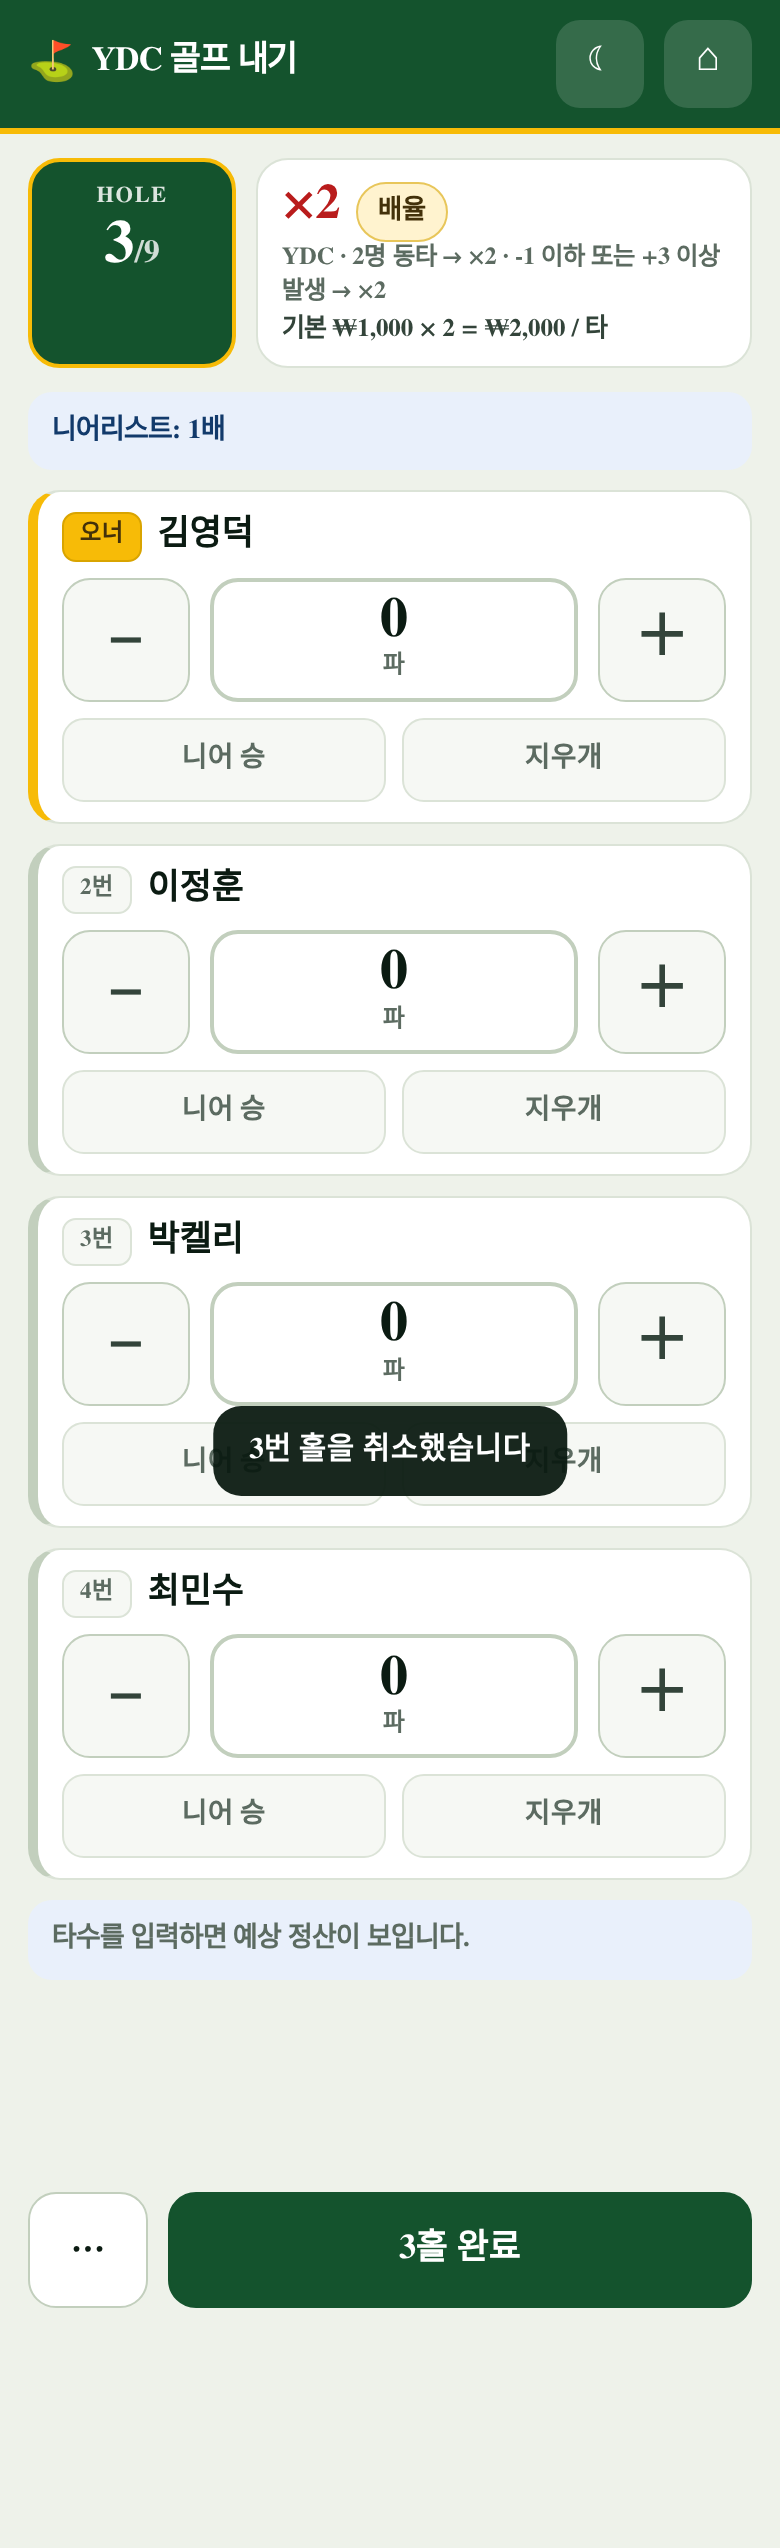
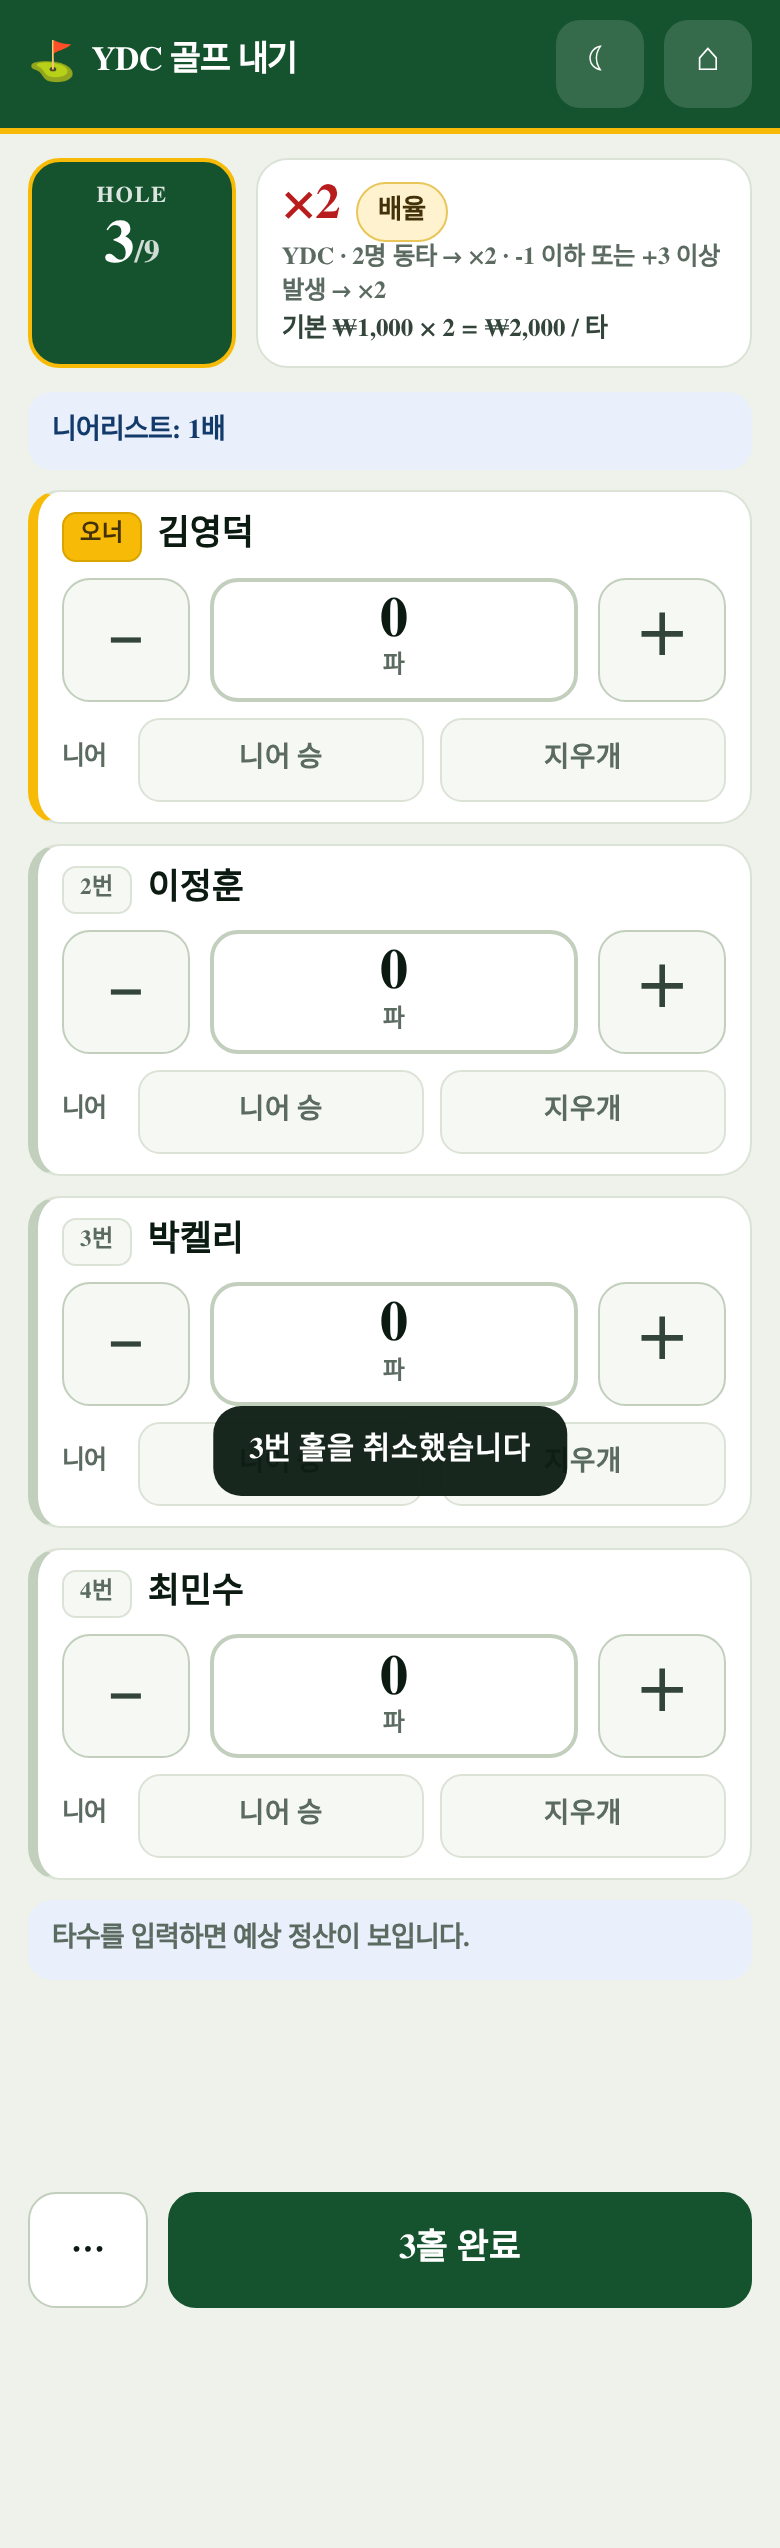
사이드 게임(니어/롱기) 칩을 종류별 한 줄로 분리, 테스트 63개 통과

diff --git a/index.html b/index.html
@@ -541,6 +541,13 @@ select.input {
   color: var(--muted);
   flex: 1 1 30%;
 }
+.side-chips .side-label {
+  align-self: center;
+  font-size: .78rem;
+  font-weight: 900;
+  color: var(--muted);
+  min-width: 30px;
+}
 .side-chips button.on { background: var(--info-soft); border-color: #6f9ede; color: var(--info-ink); }
 .side-chips button.erase.on { background: var(--lose-soft); border-color: #e08a8a; color: var(--lose); }
 
@@ -2028,8 +2035,11 @@ var App = (function () {
       var sideChips = activeSides.map(function (type) {
         var label = type === 'nearest' ? '니어' : '롱기';
         var cur = (d.sides[type] && d.sides[type][uid]) || 'none';
-        return '<button data-act="play:side" data-type="' + type + '" data-uid="' + esc(uid) + '" data-val="win" class="' + (cur === 'win' ? 'on' : '') + '">' + label + ' 승</button>' +
-          '<button data-act="play:side" data-type="' + type + '" data-uid="' + esc(uid) + '" data-val="erase" class="erase ' + (cur === 'erase' ? 'on' : '') + '">지우개</button>';
+        return '<div class="side-chips" data-side-row="' + type + '">' +
+          '<span class="side-label">' + label + '</span>' +
+          '<button data-act="play:side" data-type="' + type + '" data-uid="' + esc(uid) + '" data-val="win" class="' + (cur === 'win' ? 'on' : '') + '">' + label + ' 승</button>' +
+          '<button data-act="play:side" data-type="' + type + '" data-uid="' + esc(uid) + '" data-val="erase" class="erase ' + (cur === 'erase' ? 'on' : '') + '">지우개</button>' +
+        '</div>';
       }).join('');
 
       var doubleBtn = '';
@@ -2058,7 +2068,7 @@ var App = (function () {
           '</button>' +
           '<button class="stepper" data-act="play:inc" data-uid="' + esc(uid) + '" data-d="1" aria-label="타수 늘리기">＋</button>' +
         '</div>' +
-        (activeSides.length ? '<div class="side-chips">' + sideChips + '</div>' : '') +
+        sideChips +
         doubleBtn +
       '</div>';
     }).join('');

diff --git a/src/app.js b/src/app.js
@@ -419,8 +419,11 @@ var App = (function () {
       var sideChips = activeSides.map(function (type) {
         var label = type === 'nearest' ? '니어' : '롱기';
         var cur = (d.sides[type] && d.sides[type][uid]) || 'none';
-        return '<button data-act="play:side" data-type="' + type + '" data-uid="' + esc(uid) + '" data-val="win" class="' + (cur === 'win' ? 'on' : '') + '">' + label + ' 승</button>' +
-          '<button data-act="play:side" data-type="' + type + '" data-uid="' + esc(uid) + '" data-val="erase" class="erase ' + (cur === 'erase' ? 'on' : '') + '">지우개</button>';
+        return '<div class="side-chips" data-side-row="' + type + '">' +
+          '<span class="side-label">' + label + '</span>' +
+          '<button data-act="play:side" data-type="' + type + '" data-uid="' + esc(uid) + '" data-val="win" class="' + (cur === 'win' ? 'on' : '') + '">' + label + ' 승</button>' +
+          '<button data-act="play:side" data-type="' + type + '" data-uid="' + esc(uid) + '" data-val="erase" class="erase ' + (cur === 'erase' ? 'on' : '') + '">지우개</button>' +
+        '</div>';
       }).join('');
 
       var doubleBtn = '';
@@ -449,7 +452,7 @@ var App = (function () {
           '</button>' +
           '<button class="stepper" data-act="play:inc" data-uid="' + esc(uid) + '" data-d="1" aria-label="타수 늘리기">＋</button>' +
         '</div>' +
-        (activeSides.length ? '<div class="side-chips">' + sideChips + '</div>' : '') +
+        sideChips +
         doubleBtn +
       '</div>';
     }).join('');

diff --git a/src/style.css b/src/style.css
@@ -519,6 +519,13 @@ select.input {
   color: var(--muted);
   flex: 1 1 30%;
 }
+.side-chips .side-label {
+  align-self: center;
+  font-size: .78rem;
+  font-weight: 900;
+  color: var(--muted);
+  min-width: 30px;
+}
 .side-chips button.on { background: var(--info-soft); border-color: #6f9ede; color: var(--info-ink); }
 .side-chips button.erase.on { background: var(--lose-soft); border-color: #e08a8a; color: var(--lose); }
 

diff --git a/tests/test_browser.py b/tests/test_browser.py
@@ -460,6 +460,46 @@ def run():
             shot(p5, '53-summary-after-edit.png')
             ctx5.close()
 
+            # ================= 시나리오 6: 니어 + 롱기 동시 지정 =================
+            print('\n[6] 니어 + 롱기 같은 홀')
+            ctx6 = browser.new_context(viewport=bu.MOBILE, device_scale_factor=2, locale='ko-KR')
+            p6 = ctx6.new_page()
+            errs6 = []
+            p6.on('pageerror', lambda e: errs6.append(str(e)))
+            p6.goto(url, wait_until='load')
+            p6.wait_for_timeout(200)
+            start_round(p6, 'ydc', ['가', '나', '다'], base=1000, holes=9,
+                        sides={'nearest': [2], 'longest': [2]}, title='사이드 둘')
+            # 1홀은 사이드 없음
+            ok('1홀엔 사이드 칩 없음', p6.locator('.side-chips').count() == 0)
+            fill_scores(p6, {'가': 1, '나': 1, '다': 1})
+            p6.click('[data-act="play:finish"]')
+            p6.wait_for_timeout(250)
+            p6.click('[data-act="result:next"]')
+            p6.wait_for_timeout(200)
+            ok('2홀엔 선수마다 사이드 칩 2줄', p6.locator('.player').first.locator('.side-chips').count() == 2,
+               p6.locator('.player').first.locator('.side-chips').count())
+            fill_scores(p6, {'가': 0, '나': 1, '다': 2})
+            cards = p6.locator('.player')
+            for i in range(cards.count()):
+                nm = cards.nth(i).locator('.name').inner_text().strip()
+                if nm == '가':
+                    cards.nth(i).locator('.side-chips').nth(0).locator('[data-val="win"]').click()
+                if nm == '다':
+                    cards.nth(i).locator('.side-chips').nth(1).locator('[data-val="win"]').click()
+            p6.wait_for_timeout(120)
+            shot(p6, '61-play-two-sides.png', full=True)
+            p6.click('[data-act="play:finish"]')
+            p6.wait_for_timeout(350)
+            v6 = recompute_in_page(p6, storage_round(p6))
+            h2 = None
+            p6_body = p6.inner_text('#root')
+            ok('니어·롱기 둘 다 표시', '니어' in p6_body and '롱기' in p6_body, p6_body[:300])
+            ok('사이드 둘 다 정산(합 0)', sum(v6['finalNet']) == 0, v6['finalNet'])
+            ok('사이드 콘솔 오류 없음', not errs6, errs6)
+            shot(p6, '62-result-two-sides.png')
+            ctx6.close()
+
             browser.close()
     finally:
         httpd.shutdown()
